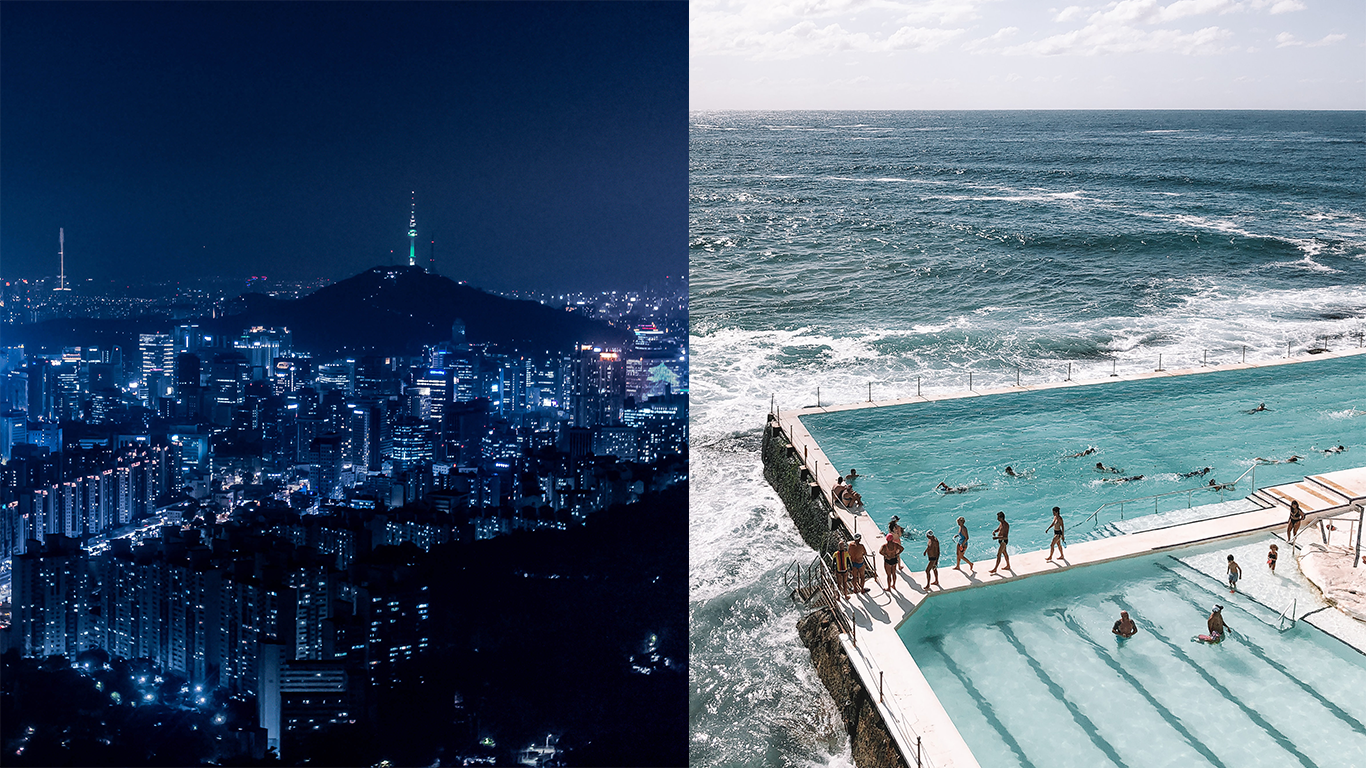
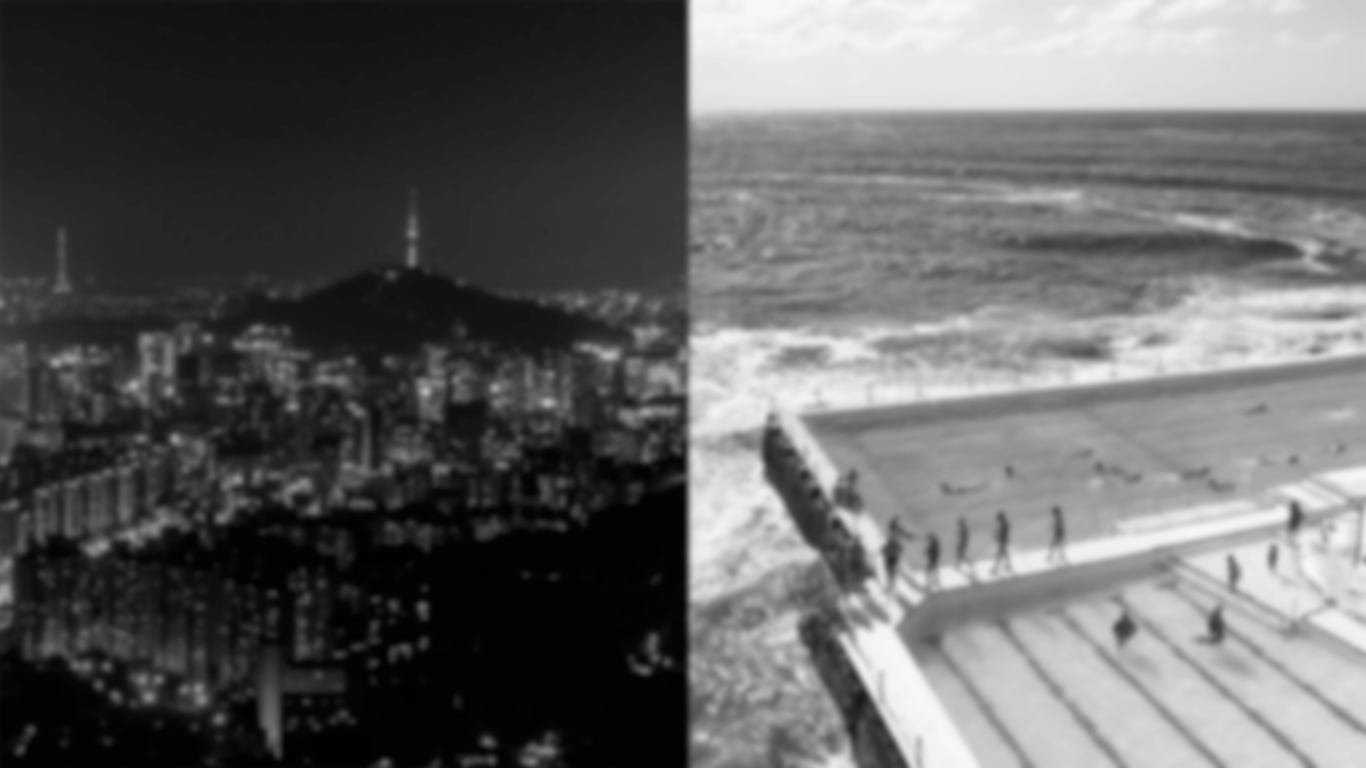
monochrome

diff --git a/index.html b/index.html
@@ -1,8 +1,8 @@
 <html>
   <head>
     <style>
-      body {
-        background-image: url('Artboard 1');
+      .background {
+        background-image: url('Artboard 1.png');
         background-repeat: no-repeat;
         background-attachment: fixed;
         background-size: cover;
@@ -38,7 +38,7 @@
         </div>
      
         
-        
+
         
 </body>
 
